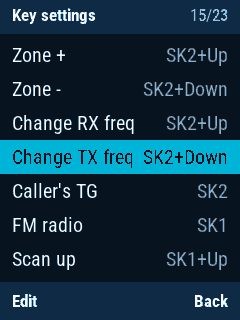
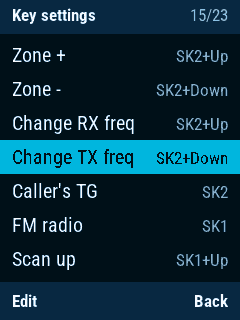
Docs: key settings screenshots after the fix, long values in lists, a long press shown as 'long'

diff --git a/docs/ui-design.en.md b/docs/ui-design.en.md
@@ -1,6 +1,6 @@
 # DM-32UV user interface
 
-Status: **implemented; this document matches the firmware** (2026-11-15, firmware commit cae8935).
+Status: **implemented; this document matches the firmware** (2026-11-15, firmware commit 9aff18c).
 中文版：[ui-design.md](ui-design.md).
 
 > Sections 1 - 5 were first built in the ucos firmware (RA4FHE's OpenDM32, `firmware/dh4570_IAP`) and carried over to the current firmware (`src/`). Section 6 outlines how `src/` builds its UI; the details are in section 6 of the Chinese version, [ui-design.md](ui-design.md).
@@ -197,6 +197,9 @@ segments.
 - Rows: icon (main menu, options) + name, the value right aligned; 7 rows a page;
 - Selected row on the accent, its text solid in `ON_ACCENT`;
 - Values (on/off, choices, numbers) change with left/right and the knob only, not with the menu key;
+- When name and value don't fit: the value a size smaller (17 px, same baseline), then the name too, and only then
+  the name cut; the key combinations of Key settings are always a size smaller (`small_value`), the same on the
+  whole page;
 - Bottom bar left key: `Select` on rows that open a submenu or screen, no label on a value row; `Save` in the
   channel details, `OK` in the quick menus; right key `Back`.
 
@@ -251,7 +254,6 @@ py tools/debug/fkey.py down green     # key events into the UI queue, to step th
 - **English quick menus**: "Add to dual watch" and "Replace VFO B" overlap (not in Chinese);
 - **English left in the Chinese interface**: `Tx <--> Rx`, `Rx --> Tx`, `Tx --> Rx` in the quick menu, the VFO's
   `RX`/`TX` chips;
-- **English key settings**: the `User power` row's name overlaps its key combination;
 - **S meter in DMR receive**: reads S7 while no or only 4 segments are lit (maybe a redraw during the capture;
   to check on the radio);
 - **Lock notice**: a short band above the bottom bar, gone before the capture.

diff --git a/docs/manual.md b/docs/manual.md
@@ -470,7 +470,7 @@
 
 <img src="manual/zh/key-settings.png" alt="按键设置"> <img src="manual/zh/key-settings-2.png" alt="按键设置 2"> <img src="manual/zh/key-settings-3.png" alt="按键设置 3">
 
-每一行是一个功能和它的按键（出厂设置见 [1](#主界面上的快捷功能出厂设置)）。
+每一行是一个功能和它的按键（出厂设置见 [1](#主界面上的快捷功能出厂设置)）；长按写在按键后面（`SK2+右 长按`）。
 
 - 在一行上按菜单键，然后按新的按键：可以按住 SK1 / SK2 再按别的键，可以短按或长按，也可以单按 SK1 或 SK2。返回键保留原来的。
 - 菜单键、返回键、PTT 不能用；▲ ▼ 和数字键要带侧键。

diff --git a/docs/manual.en.md b/docs/manual.en.md
@@ -546,7 +546,8 @@ new PIN, 4 - 6 digits, twice), **Change PIN** sets another one (for both).
 
 <img src="manual/en/key-settings.png" alt="Key settings"> <img src="manual/en/key-settings-2.png" alt="Key settings 2"> <img src="manual/en/key-settings-3.png" alt="Key settings 3">
 
-One row an action with its keys (the defaults: [1](#shortcuts-on-the-main-screens-defaults)).
+One row an action with its keys (the defaults: [1](#shortcuts-on-the-main-screens-defaults)); a long press shows as
+`long` after the keys (`SK2+Right long`).
 
 - The menu key on a row, then the new keys: SK1 / SK2 held with another key, a short or a long press, or SK1 or SK2
   alone. The back key keeps the old keys.
